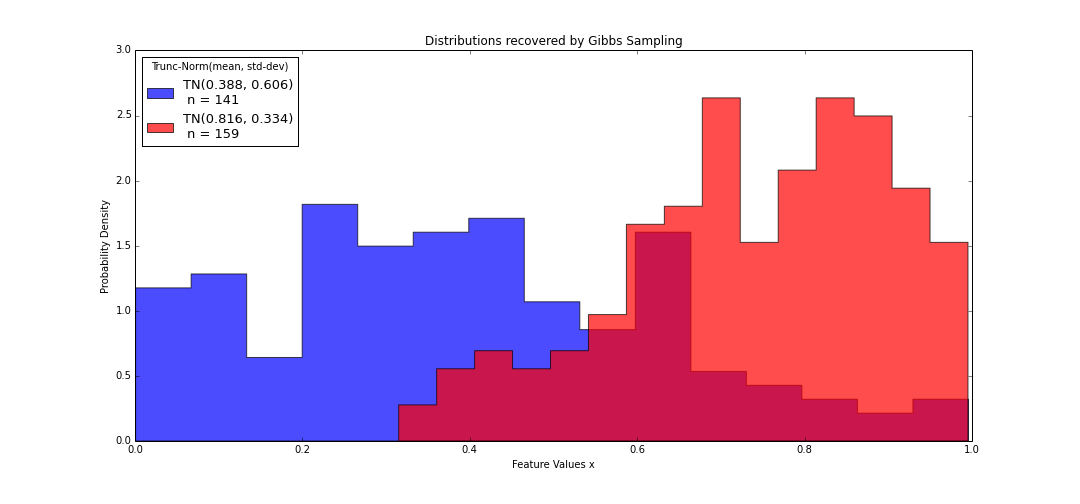
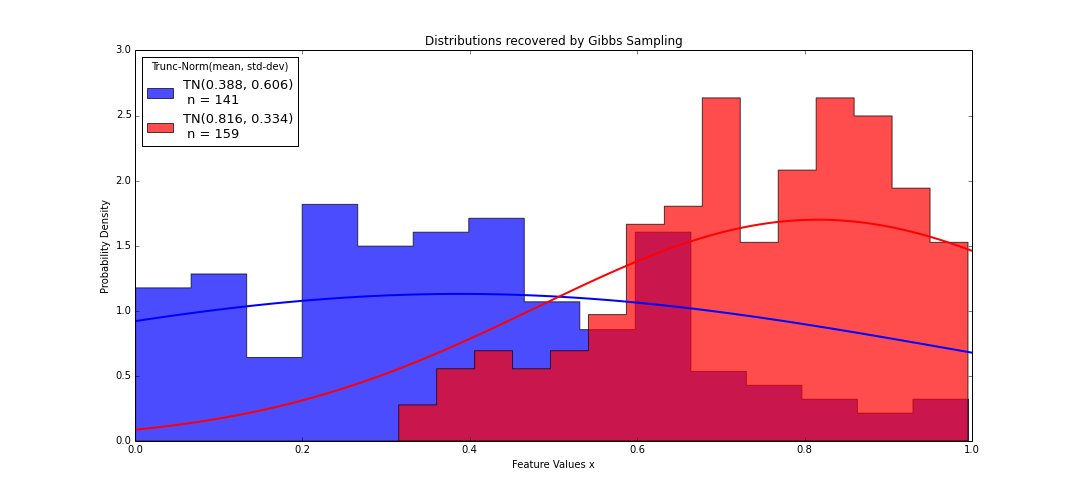
updated images

diff --git a/README.md b/README.md
@@ -2,7 +2,7 @@ Can Gibbs Sampling save the startup?
 
 A startup is prototyping a sensor device which has so far taken p readings from n individuals, where p>>n. However, they have lost the time information for their readings and are desperate to identify which readings were taken when the individuals were sleeping and which were taken when they were awake. However, they know the readings fall in the interval of 0 to 1 and occur at the same time for all individuals. Additionally, the readings taken during when an individual is awake will fall under a different distribution than readings taken while he/she is asleep, but the distribution parameters are unknown. In other words, there are 2 Truncated-Normal distributions that generate the data for all the individuals, and if we can find the the parameters of these 2 distributions we can discriminate between readings taken at night and those taken during the day.
 
-Here are the sensor readings from all the individuals. We have overlain the true (unknown) distributions used to generate the readings. We can assume the blue are readings during the day and the red are those taken at night.
+Here we have taken 30 sensor readings from 10 individuals. We have overlain the true (unknown) distributions used to generate the readings. We can assume the blue are readings during the day and the red are those taken at night.
 ![](images/simulated_data.png?raw=true)
 
 
